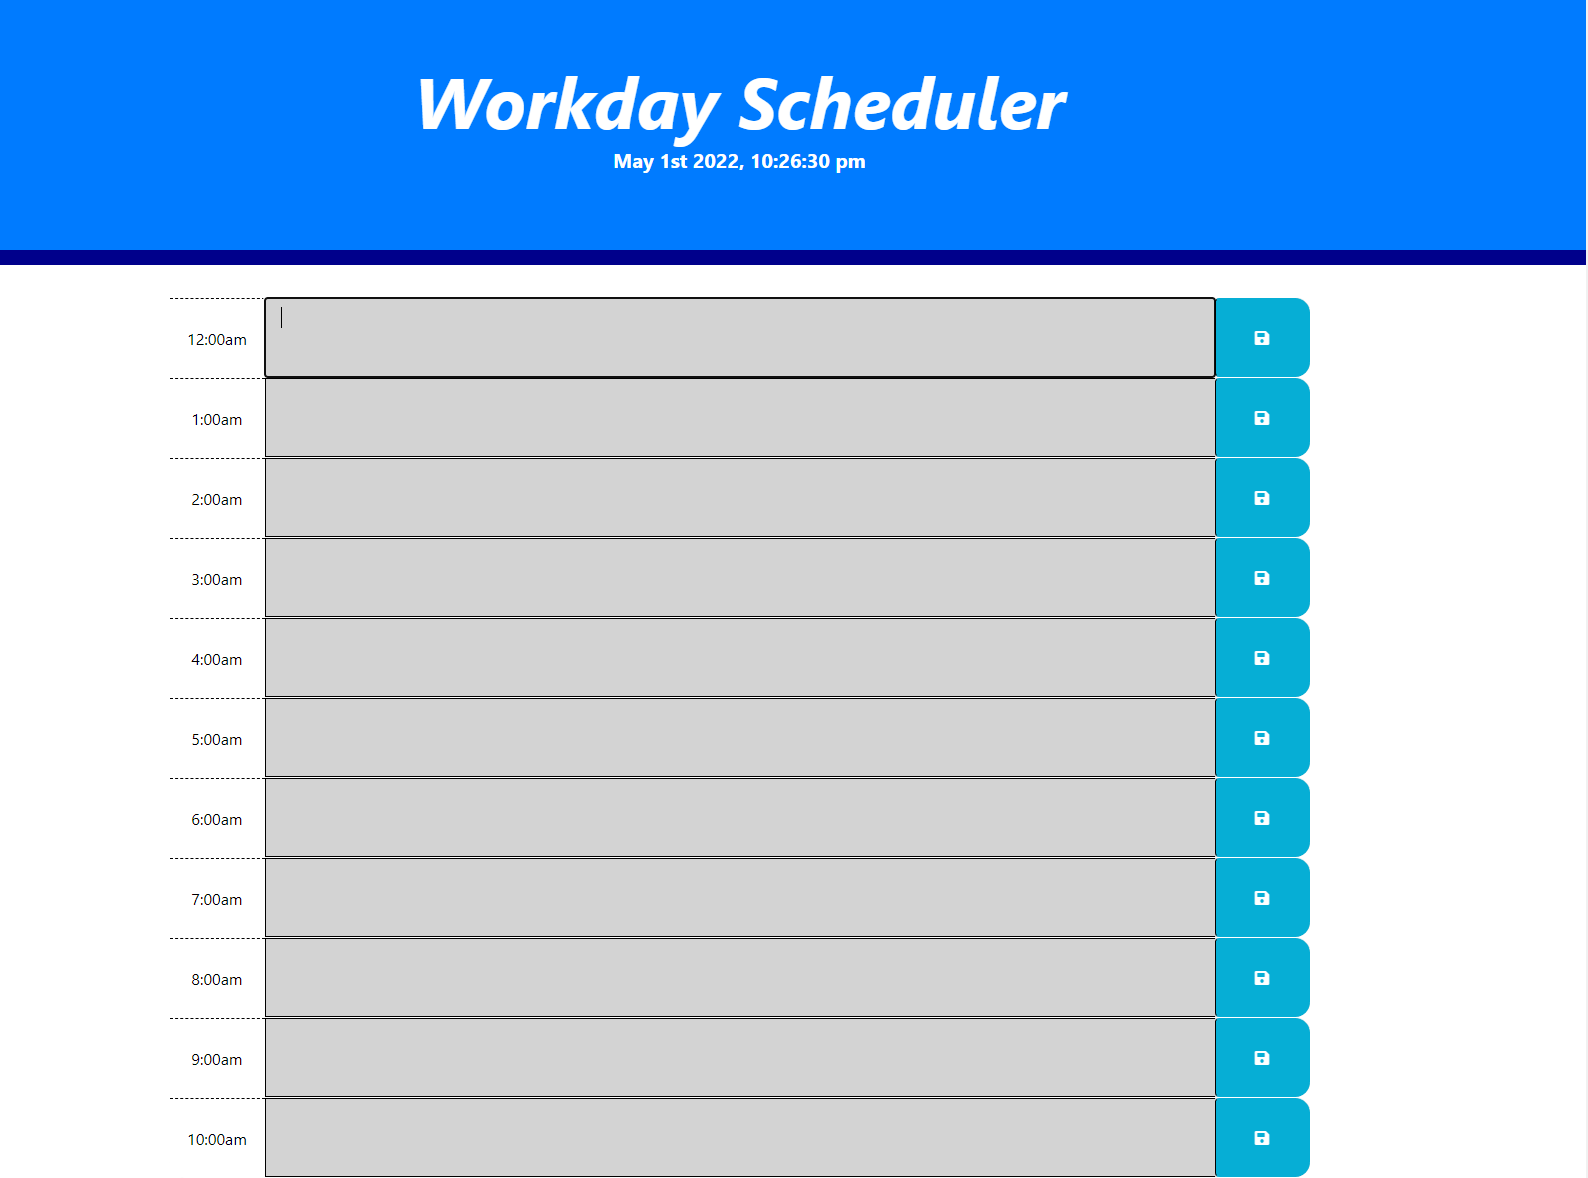
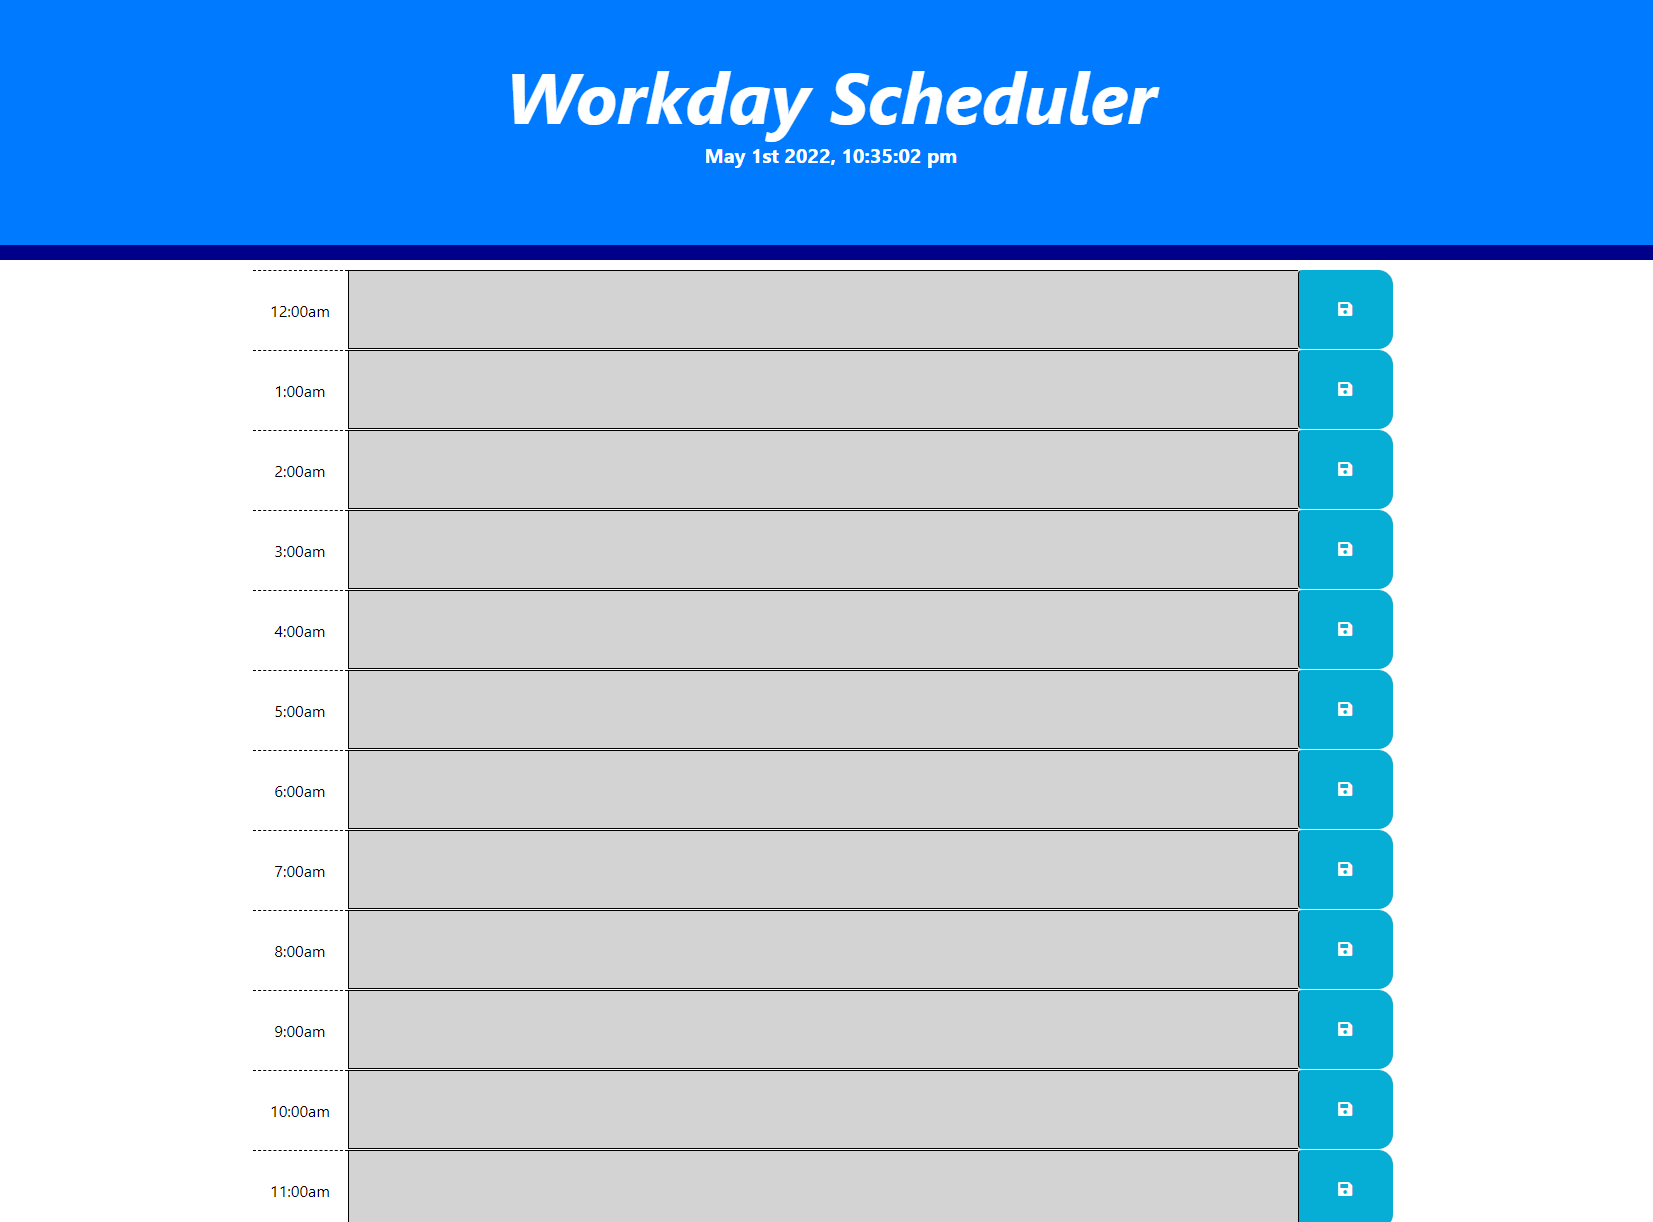
made jumotron fixed and added padding to top of section-container

Changed region(s): [[0.0, 0.1834, 1.0, 1.0], [0.2469, 0.0611, 0.7097, 0.1528]]

diff --git a/assets/css/style.css b/assets/css/style.css
@@ -18,6 +18,13 @@ textarea{
   color: black;
   border-radius: 0;
   border-bottom: 15px solid darkblue;
+  position: fixed;
+  z-index: 9;
+  width: 100vw;
+}
+
+.container{
+    padding-top: 23vh;
 }
 
 .description{
